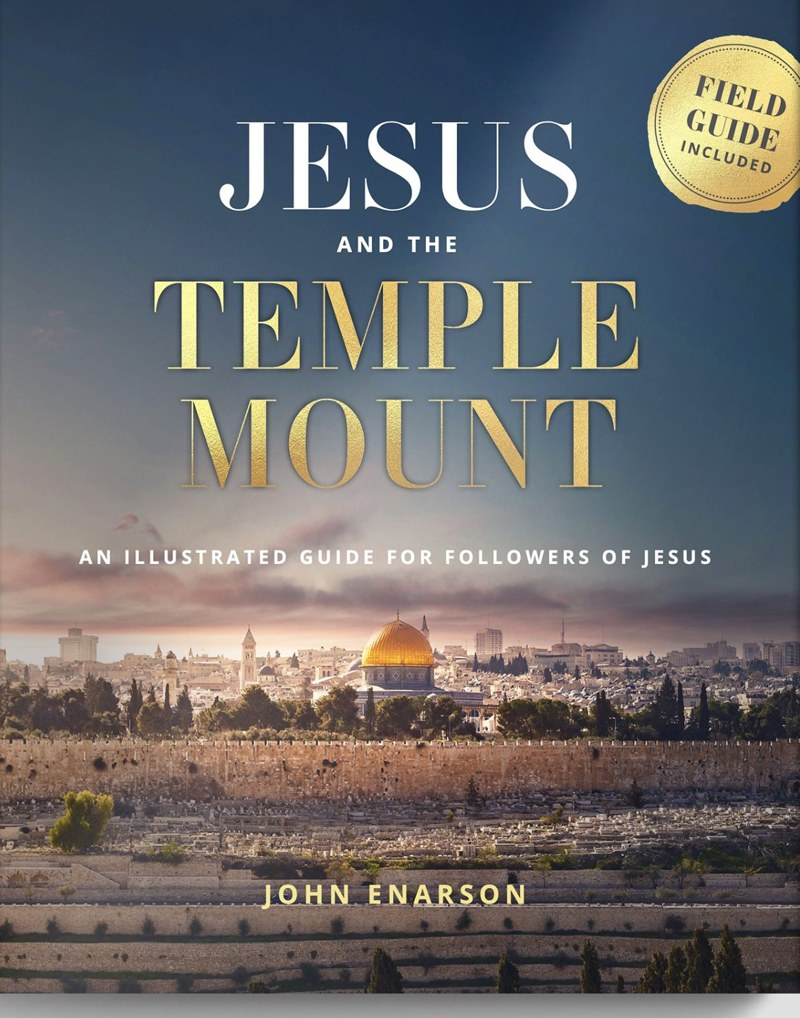
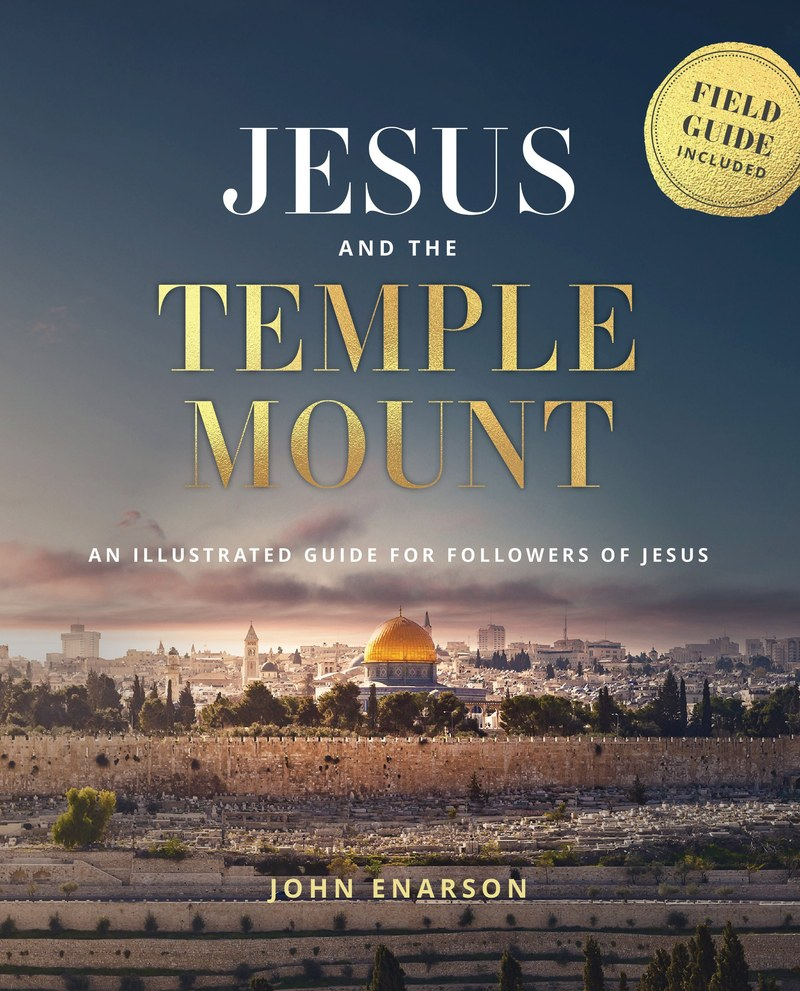
Corrected cover everywhere the cover is used (cover, board, share image); flip book ends with cover + preorder offer spread
Claude-Session: https://claude.ai/code/session_018FvaGWmpi4YXVSvv84J7zQ

diff --git a/media-kit.html b/media-kit.html
@@ -11,12 +11,12 @@
   <meta property="og:site_name" content="John Enarson">
   <meta property="og:title" content="Media Kit · John Enarson">
   <meta property="og:description" content="Cover art, author photos, bios, book description, and endorsements for Jesus and the Temple Mount by John Enarson.">
-  <meta property="og:image" content="https://johnenarson.github.io/assets/img/share.jpg">
+  <meta property="og:image" content="https://johnenarson.github.io/assets/img/share.jpg?v=2">
   <meta name="twitter:card" content="summary_large_image">
   <link rel="preconnect" href="https://fonts.googleapis.com">
   <link rel="preconnect" href="https://fonts.gstatic.com" crossorigin>
   <link href="https://fonts.googleapis.com/css2?family=Merriweather:ital,wght@0,300;0,400;0,700;1,300;1,400&family=Source+Serif+4:ital,opsz,wght@0,8..60,300;0,8..60,400;0,8..60,600;1,8..60,400&family=Inter:wght@400;500;600;700&display=swap" rel="stylesheet">
-  <link rel="stylesheet" href="assets/css/site.css?v=56">
+  <link rel="stylesheet" href="assets/css/site.css?v=57">
 </head>
 <body>
 <div class="page">
@@ -52,7 +52,7 @@
   <div class="wrap">
     <p class="eyebrow">Images</p>
     <div class="downloads">
-      <a class="dl" href="assets/img/cover.jpg" download><div class="thumb"><img src="assets/img/cover.jpg" alt="Book cover" loading="lazy"></div><b>Book cover</b><span>Download JPG</span></a>
+      <a class="dl" href="assets/img/cover.jpg?v=2" download><div class="thumb"><img src="assets/img/cover.jpg?v=2" alt="Book cover" loading="lazy"></div><b>Book cover</b><span>Download JPG</span></a>
       <a class="dl" href="assets/img/hero-author-book.webp" download><div class="thumb"><img src="assets/img/hero-author-book.webp" alt="John Enarson with the book" loading="lazy" style="object-fit: contain"></div><b>Author with book</b><span>Download image</span></a>
       <a class="dl" href="assets/img/john-blue.jpg" download><div class="thumb"><img src="assets/img/john-blue.jpg" alt="Portrait of John Enarson" loading="lazy" style="object-position: 25% 30%"></div><b>Author portrait</b><span>Download JPG</span></a>
       <a class="dl" href="assets/img/speaking.jpg" download><div class="thumb"><img src="assets/img/speaking.jpg" alt="John Enarson speaking" loading="lazy"></div><b>John speaking</b><span>Download JPG</span></a>
@@ -112,6 +112,6 @@
 </footer>
 
 </div>
-<script src="assets/js/pages.js?v=56"></script>
+<script src="assets/js/pages.js?v=57"></script>
 </body>
 </html>

diff --git a/book.html b/book.html
@@ -11,12 +11,12 @@
   <meta property="og:site_name" content="John Enarson">
   <meta property="og:title" content="Jesus and the Temple Mount · John Enarson">
   <meta property="og:description" content="Jesus and the Temple Mount: An Illustrated Guide for Followers of Jesus. A large-format coffee table book with an included Field Guide. Preorder and get the E-Book instantly.">
-  <meta property="og:image" content="https://johnenarson.github.io/assets/img/share.jpg">
+  <meta property="og:image" content="https://johnenarson.github.io/assets/img/share.jpg?v=2">
   <meta name="twitter:card" content="summary_large_image">
   <link rel="preconnect" href="https://fonts.googleapis.com">
   <link rel="preconnect" href="https://fonts.gstatic.com" crossorigin>
   <link href="https://fonts.googleapis.com/css2?family=Merriweather:ital,wght@0,300;0,400;0,700;1,300;1,400&family=Source+Serif+4:ital,opsz,wght@0,8..60,300;0,8..60,400;0,8..60,600;1,8..60,400&family=Inter:wght@400;500;600;700&display=swap" rel="stylesheet">
-  <link rel="stylesheet" href="assets/css/site.css?v=56">
+  <link rel="stylesheet" href="assets/css/site.css?v=57">
 </head>
 <body>
 <div class="page">
@@ -53,7 +53,7 @@
         <a class="look" href="#inside">LOOK INSIDE</a>
       </div>
     </div>
-    <img class="book-cover" src="assets/img/cover.jpg" alt="Cover of Jesus and the Temple Mount by John Enarson" width="800" height="1018">
+    <img class="book-cover" src="assets/img/cover.jpg?v=2" alt="Cover of Jesus and the Temple Mount by John Enarson" width="800" height="991">
   </div>
 </section>
 <nav class="subnav" aria-label="The Book"><div class="wrap"><a href="book.html" aria-current="page">Overview</a><a href="endorsements.html">Endorsements</a><a href="bulk.html">Bulk &amp; Wholesale</a><a href="media-kit.html">Media Kit</a></div></nav>
@@ -177,8 +177,8 @@
 </footer>
 
 </div>
-<script src="assets/js/pages.js?v=56"></script>
-<script src="assets/js/site.js?v=56"></script>
-<script src="assets/js/flipbook.js?v=56"></script>
+<script src="assets/js/pages.js?v=57"></script>
+<script src="assets/js/site.js?v=57"></script>
+<script src="assets/js/flipbook.js?v=57"></script>
 </body>
 </html>

diff --git a/assets/js/flipbook.js b/assets/js/flipbook.js
@@ -14,8 +14,10 @@
   var START = parseInt(root.getAttribute('data-start'), 10) || 0;   // book page to open on
   var pages = [];
   LIST.forEach(function (n) { pages.push({ src: BASE + ('00' + n).slice(-3) + '.webp', alt: 'Page ' + n, num: n }); });
+  // Closing spread: the cover on the left, the preorder offer on the right.
+  if (pages.length % 2) pages.push({ blank: true });
+  pages.push({ src: 'assets/img/cover.jpg?v=2', alt: 'Cover of Jesus and the Temple Mount', cover: true });
   pages.push({ end: true });
-  pages.push({ src: 'assets/img/cover.jpg', alt: 'Cover of Jesus and the Temple Mount', cover: true });
 
   var book = root.querySelector('.fb-book');
   var stage = root.querySelector('.fb-stage');
@@ -52,11 +54,16 @@
   function face(p) {
     var el = document.createElement('div');
     el.className = 'fb-face';
-    if (!p) return el;
+    if (!p || p.blank) return el;
     if (p.end) {
       el.classList.add('fb-endcard');
-      el.innerHTML = '<p class="eyebrow">There is so much more</p><h3>Preorder to see the rest.</h3>' +
-        '<p>370 pages, a fold-out Field Guide, and the E-Book delivered instantly with your preorder.</p>' +
+      el.innerHTML = '<p class="eyebrow">Preorder offer</p>' +
+        '<h3>Get both editions. <em>Start reading today.</em></h3>' +
+        '<ul class="fb-offer">' +
+          '<li><b>The E-Book, instantly.</b> Delivered the moment you preorder.</li>' +
+          '<li><b>The printed edition.</b> The large-format coffee table hardcover, 370 pages with dust jacket, shipped on release.</li>' +
+          '<li><b>The Field Guide.</b> A fold-out map to follow along on location.</li>' +
+        '</ul>' +
         '<a class="btn btn-gold" href="' + SHOP + '" target="_blank" rel="noopener">Preorder now</a>';
       return el;
     }

diff --git a/assets/css/site.css b/assets/css/site.css
@@ -367,7 +367,7 @@ img { max-width: 100%; }
 .fb-board-l { border-radius: 3px 0 0 3px; }
 .fb-board-r { border-radius: 0 3px 3px 0; }
 .fb-art { position: absolute; inset: 0; background-size: cover; background-position: center; filter: brightness(0.9); }
-.fb-board-l .fb-art { background-image: url('../img/board-front.webp'); }
+.fb-board-l .fb-art { background-image: url('../img/board-front.webp?v=2'); }
 .fb-board-r .fb-art { background-image: url('../img/board-back.webp'); }
 /* Dust-jacket flaps wrapped around the outer edges, about 118mm deep */
 .fb-flap { position: absolute; top: 0; bottom: 0; width: calc(var(--mm) * 118); background-size: 100% 100%; }
@@ -428,6 +428,11 @@ img { max-width: 100%; }
 .fb-endcard h3 { margin: 0; font: 300 clamp(22px, 3vw, 40px)/1.15 var(--display); color: var(--white); }
 .fb-endcard p { margin: 0; font-size: clamp(13px, 1.3vw, 17px); line-height: 1.6; color: var(--ink); }
 .fb-endcard .btn { min-height: 44px; }
+.fb-endcard h3 em { font-style: italic; color: var(--gold); }
+.fb-offer { margin: 0; padding: 0; list-style: none; display: flex; flex-direction: column; gap: 0.9em; font-size: clamp(12px, 1.15vw, 16px); line-height: 1.5; color: var(--ink); }
+.fb-offer li { position: relative; padding-left: 1.4em; }
+.fb-offer li::before { content: ""; position: absolute; left: 0; top: 0.55em; width: 0.5em; height: 0.5em; border-radius: 50%; background: var(--gold); }
+.fb-offer b { color: var(--white); font-weight: 600; }
 .fb-cover { background: var(--navy) !important; }
 .fb-cover img { object-fit: cover; }
 

diff --git a/index.html b/index.html
@@ -11,12 +11,12 @@
   <meta property="og:site_name" content="John Enarson">
   <meta property="og:title" content="Jesus and the Temple Mount · John Enarson">
   <meta property="og:description" content="An Illustrated Guide for Followers of Jesus. Preorder now and get the E-Book instantly.">
-  <meta property="og:image" content="https://johnenarson.github.io/assets/img/share.jpg">
+  <meta property="og:image" content="https://johnenarson.github.io/assets/img/share.jpg?v=2">
   <meta name="twitter:card" content="summary_large_image">
   <link rel="preconnect" href="https://fonts.googleapis.com">
   <link rel="preconnect" href="https://fonts.gstatic.com" crossorigin>
   <link href="https://fonts.googleapis.com/css2?family=Merriweather:ital,wght@0,300;0,400;0,700;1,300;1,400&family=Source+Serif+4:ital,opsz,wght@0,8..60,300;0,8..60,400;0,8..60,600;1,8..60,400&family=Inter:wght@400;500;600;700&display=swap" rel="stylesheet">
-  <link rel="stylesheet" href="assets/css/site.css?v=56">
+  <link rel="stylesheet" href="assets/css/site.css?v=57">
 </head>
 <body>
 <div class="page">
@@ -201,9 +201,9 @@
 </footer>
 
 </div>
-<script src="assets/js/pages.js?v=56"></script>
-<script src="assets/js/site.js?v=56"></script>
-<script src="assets/js/carousel.js?v=56"></script>
-<script src="assets/js/flipbook.js?v=56"></script>
+<script src="assets/js/pages.js?v=57"></script>
+<script src="assets/js/site.js?v=57"></script>
+<script src="assets/js/carousel.js?v=57"></script>
+<script src="assets/js/flipbook.js?v=57"></script>
 </body>
 </html>

diff --git a/film.html b/film.html
@@ -11,12 +11,12 @@
   <meta property="og:site_name" content="John Enarson">
   <meta property="og:title" content="The Film · John Enarson">
   <meta property="og:description" content="I AM ISRAEL: The Mountain of the King, a film by director David Kiern, and its companion book, Jesus and the Temple Mount by John Enarson.">
-  <meta property="og:image" content="https://johnenarson.github.io/assets/img/share.jpg">
+  <meta property="og:image" content="https://johnenarson.github.io/assets/img/share.jpg?v=2">
   <meta name="twitter:card" content="summary_large_image">
   <link rel="preconnect" href="https://fonts.googleapis.com">
   <link rel="preconnect" href="https://fonts.gstatic.com" crossorigin>
   <link href="https://fonts.googleapis.com/css2?family=Merriweather:ital,wght@0,300;0,400;0,700;1,300;1,400&family=Source+Serif+4:ital,opsz,wght@0,8..60,300;0,8..60,400;0,8..60,600;1,8..60,400&family=Inter:wght@400;500;600;700&display=swap" rel="stylesheet">
-  <link rel="stylesheet" href="assets/css/site.css?v=56">
+  <link rel="stylesheet" href="assets/css/site.css?v=57">
 </head>
 <body>
 <div class="page">
@@ -137,7 +137,7 @@
 </footer>
 
 </div>
-<script src="assets/js/pages.js?v=56"></script>
-<script src="assets/js/film.js?v=56"></script>
+<script src="assets/js/pages.js?v=57"></script>
+<script src="assets/js/film.js?v=57"></script>
 </body>
 </html>

diff --git a/writing.html b/writing.html
@@ -11,12 +11,12 @@
   <meta property="og:site_name" content="John Enarson">
   <meta property="og:title" content="Writing · John Enarson">
   <meta property="og:description" content="Articles, essays, and books by John Enarson on Israel, the Church, the Temple Mount, and the Bible in its Jewish context.">
-  <meta property="og:image" content="https://johnenarson.github.io/assets/img/share.jpg">
+  <meta property="og:image" content="https://johnenarson.github.io/assets/img/share.jpg?v=2">
   <meta name="twitter:card" content="summary_large_image">
   <link rel="preconnect" href="https://fonts.googleapis.com">
   <link rel="preconnect" href="https://fonts.gstatic.com" crossorigin>
   <link href="https://fonts.googleapis.com/css2?family=Merriweather:ital,wght@0,300;0,400;0,700;1,300;1,400&family=Source+Serif+4:ital,opsz,wght@0,8..60,300;0,8..60,400;0,8..60,600;1,8..60,400&family=Inter:wght@400;500;600;700&display=swap" rel="stylesheet">
-  <link rel="stylesheet" href="assets/css/site.css?v=56">
+  <link rel="stylesheet" href="assets/css/site.css?v=57">
 </head>
 <body>
 <div class="page">
@@ -124,7 +124,7 @@
 </footer>
 
 </div>
-<script src="assets/js/pages.js?v=56"></script>
-<script src="assets/js/latest.js?v=56"></script>
+<script src="assets/js/pages.js?v=57"></script>
+<script src="assets/js/latest.js?v=57"></script>
 </body>
 </html>

diff --git a/about.html b/about.html
@@ -11,12 +11,12 @@
   <meta property="og:site_name" content="John Enarson">
   <meta property="og:title" content="About John · John Enarson">
   <meta property="og:description" content="John Enarson is an Evangelical educator, author, and creative director in Israel, combining theology with design.">
-  <meta property="og:image" content="https://johnenarson.github.io/assets/img/share.jpg">
+  <meta property="og:image" content="https://johnenarson.github.io/assets/img/share.jpg?v=2">
   <meta name="twitter:card" content="summary_large_image">
   <link rel="preconnect" href="https://fonts.googleapis.com">
   <link rel="preconnect" href="https://fonts.gstatic.com" crossorigin>
   <link href="https://fonts.googleapis.com/css2?family=Merriweather:ital,wght@0,300;0,400;0,700;1,300;1,400&family=Source+Serif+4:ital,opsz,wght@0,8..60,300;0,8..60,400;0,8..60,600;1,8..60,400&family=Inter:wght@400;500;600;700&display=swap" rel="stylesheet">
-  <link rel="stylesheet" href="assets/css/site.css?v=56">
+  <link rel="stylesheet" href="assets/css/site.css?v=57">
 </head>
 <body>
 <div class="page">
@@ -130,7 +130,7 @@
 </footer>
 
 </div>
-<script src="assets/js/pages.js?v=56"></script>
-<script src="assets/js/film.js?v=56"></script>
+<script src="assets/js/pages.js?v=57"></script>
+<script src="assets/js/film.js?v=57"></script>
 </body>
 </html>

diff --git a/speaking.html b/speaking.html
@@ -11,12 +11,12 @@
   <meta property="og:site_name" content="John Enarson">
   <meta property="og:title" content="Speaking · John Enarson">
   <meta property="og:description" content="Invite John Enarson to speak at your church, conference, or tour group on Jesus and the Temple Mount, Christians and Israel, and more.">
-  <meta property="og:image" content="https://johnenarson.github.io/assets/img/share.jpg">
+  <meta property="og:image" content="https://johnenarson.github.io/assets/img/share.jpg?v=2">
   <meta name="twitter:card" content="summary_large_image">
   <link rel="preconnect" href="https://fonts.googleapis.com">
   <link rel="preconnect" href="https://fonts.gstatic.com" crossorigin>
   <link href="https://fonts.googleapis.com/css2?family=Merriweather:ital,wght@0,300;0,400;0,700;1,300;1,400&family=Source+Serif+4:ital,opsz,wght@0,8..60,300;0,8..60,400;0,8..60,600;1,8..60,400&family=Inter:wght@400;500;600;700&display=swap" rel="stylesheet">
-  <link rel="stylesheet" href="assets/css/site.css?v=56">
+  <link rel="stylesheet" href="assets/css/site.css?v=57">
 </head>
 <body>
 <div class="page">
@@ -115,6 +115,6 @@
 </footer>
 
 </div>
-<script src="assets/js/pages.js?v=56"></script>
+<script src="assets/js/pages.js?v=57"></script>
 </body>
 </html>

diff --git a/support.html b/support.html
@@ -11,12 +11,12 @@
   <meta property="og:site_name" content="John Enarson">
   <meta property="og:title" content="Support · John Enarson">
   <meta property="og:description" content="Support John Enarson’s ministry in Israel through The Watchman International, a US 501(c)(3). Gifts are tax-deductible for US donors.">
-  <meta property="og:image" content="https://johnenarson.github.io/assets/img/share.jpg">
+  <meta property="og:image" content="https://johnenarson.github.io/assets/img/share.jpg?v=2">
   <meta name="twitter:card" content="summary_large_image">
   <link rel="preconnect" href="https://fonts.googleapis.com">
   <link rel="preconnect" href="https://fonts.gstatic.com" crossorigin>
   <link href="https://fonts.googleapis.com/css2?family=Merriweather:ital,wght@0,300;0,400;0,700;1,300;1,400&family=Source+Serif+4:ital,opsz,wght@0,8..60,300;0,8..60,400;0,8..60,600;1,8..60,400&family=Inter:wght@400;500;600;700&display=swap" rel="stylesheet">
-  <link rel="stylesheet" href="assets/css/site.css?v=56">
+  <link rel="stylesheet" href="assets/css/site.css?v=57">
 </head>
 <body>
 <div class="page">
@@ -104,6 +104,6 @@
 </footer>
 
 </div>
-<script src="assets/js/pages.js?v=56"></script>
+<script src="assets/js/pages.js?v=57"></script>
 </body>
 </html>

diff --git a/endorsements.html b/endorsements.html
@@ -11,12 +11,12 @@
   <meta property="og:site_name" content="John Enarson">
   <meta property="og:title" content="Endorsements · John Enarson">
   <meta property="og:description" content="What scholars, ministry leaders, and Jewish voices are saying about Jesus and the Temple Mount by John Enarson.">
-  <meta property="og:image" content="https://johnenarson.github.io/assets/img/share.jpg">
+  <meta property="og:image" content="https://johnenarson.github.io/assets/img/share.jpg?v=2">
   <meta name="twitter:card" content="summary_large_image">
   <link rel="preconnect" href="https://fonts.googleapis.com">
   <link rel="preconnect" href="https://fonts.gstatic.com" crossorigin>
   <link href="https://fonts.googleapis.com/css2?family=Merriweather:ital,wght@0,300;0,400;0,700;1,300;1,400&family=Source+Serif+4:ital,opsz,wght@0,8..60,300;0,8..60,400;0,8..60,600;1,8..60,400&family=Inter:wght@400;500;600;700&display=swap" rel="stylesheet">
-  <link rel="stylesheet" href="assets/css/site.css?v=56">
+  <link rel="stylesheet" href="assets/css/site.css?v=57">
 </head>
 <body>
 <div class="page">
@@ -112,6 +112,6 @@
 </footer>
 
 </div>
-<script src="assets/js/pages.js?v=56"></script>
+<script src="assets/js/pages.js?v=57"></script>
 </body>
 </html>

diff --git a/bulk.html b/bulk.html
@@ -11,12 +11,12 @@
   <meta property="og:site_name" content="John Enarson">
   <meta property="og:title" content="Bulk & Wholesale · John Enarson">
   <meta property="og:description" content="Order Jesus and the Temple Mount in quantity for your church, bookstore, ministry, or tour group.">
-  <meta property="og:image" content="https://johnenarson.github.io/assets/img/share.jpg">
+  <meta property="og:image" content="https://johnenarson.github.io/assets/img/share.jpg?v=2">
   <meta name="twitter:card" content="summary_large_image">
   <link rel="preconnect" href="https://fonts.googleapis.com">
   <link rel="preconnect" href="https://fonts.gstatic.com" crossorigin>
   <link href="https://fonts.googleapis.com/css2?family=Merriweather:ital,wght@0,300;0,400;0,700;1,300;1,400&family=Source+Serif+4:ital,opsz,wght@0,8..60,300;0,8..60,400;0,8..60,600;1,8..60,400&family=Inter:wght@400;500;600;700&display=swap" rel="stylesheet">
-  <link rel="stylesheet" href="assets/css/site.css?v=56">
+  <link rel="stylesheet" href="assets/css/site.css?v=57">
 </head>
 <body>
 <div class="page">
@@ -100,6 +100,6 @@
 </footer>
 
 </div>
-<script src="assets/js/pages.js?v=56"></script>
+<script src="assets/js/pages.js?v=57"></script>
 </body>
 </html>
